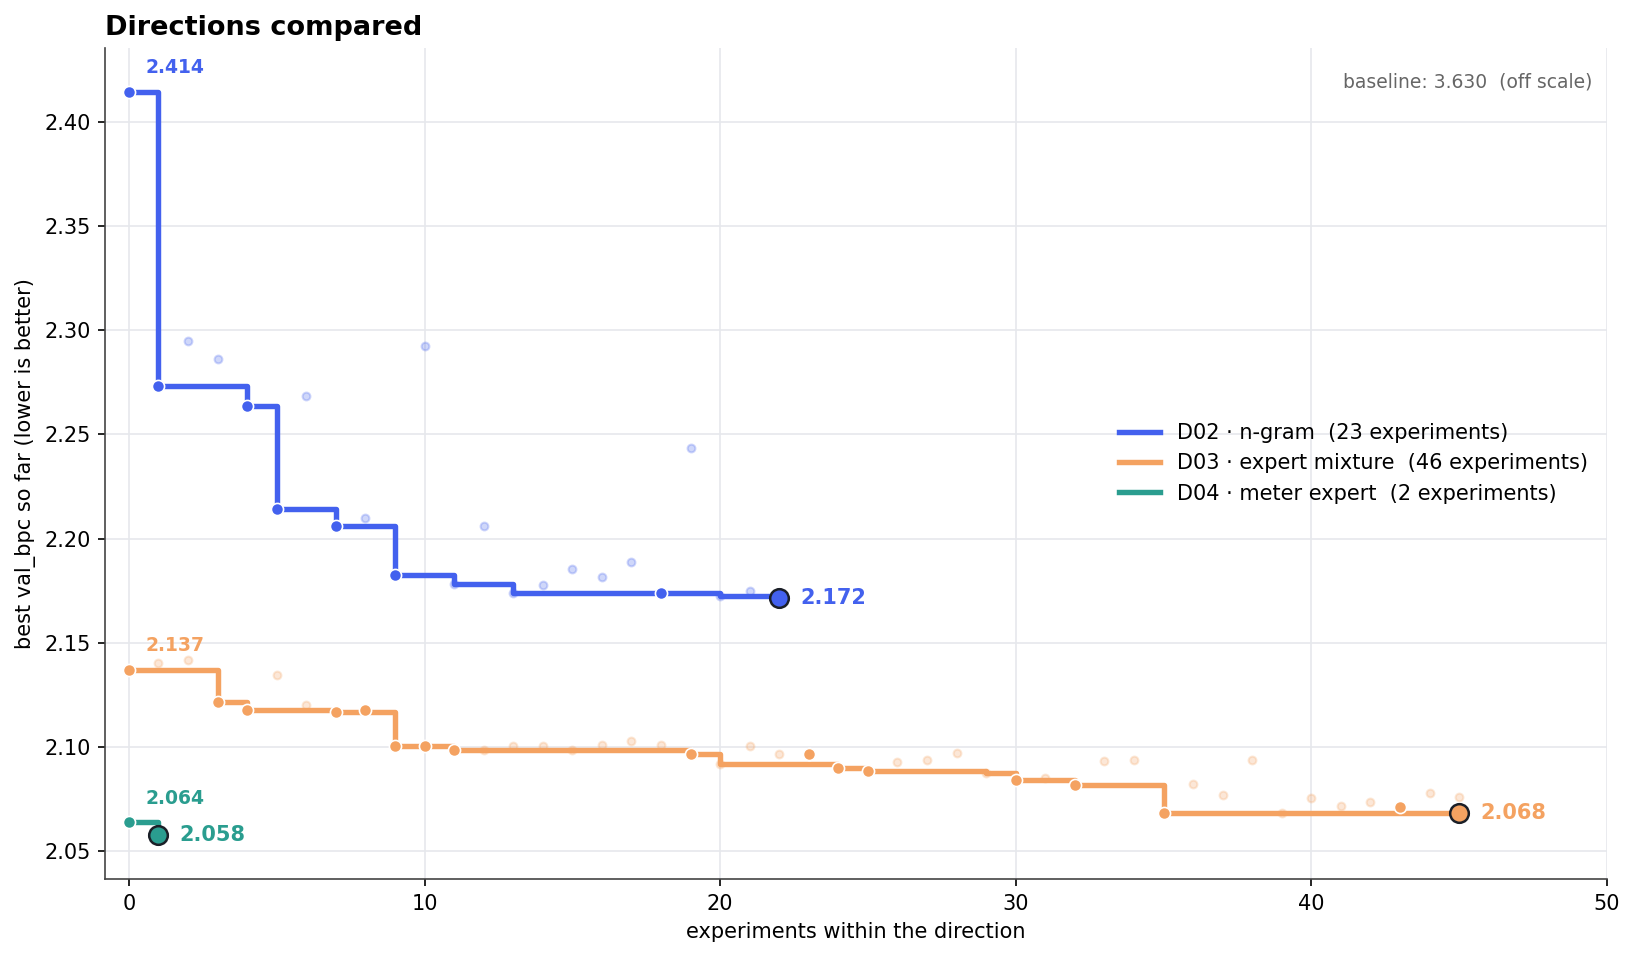
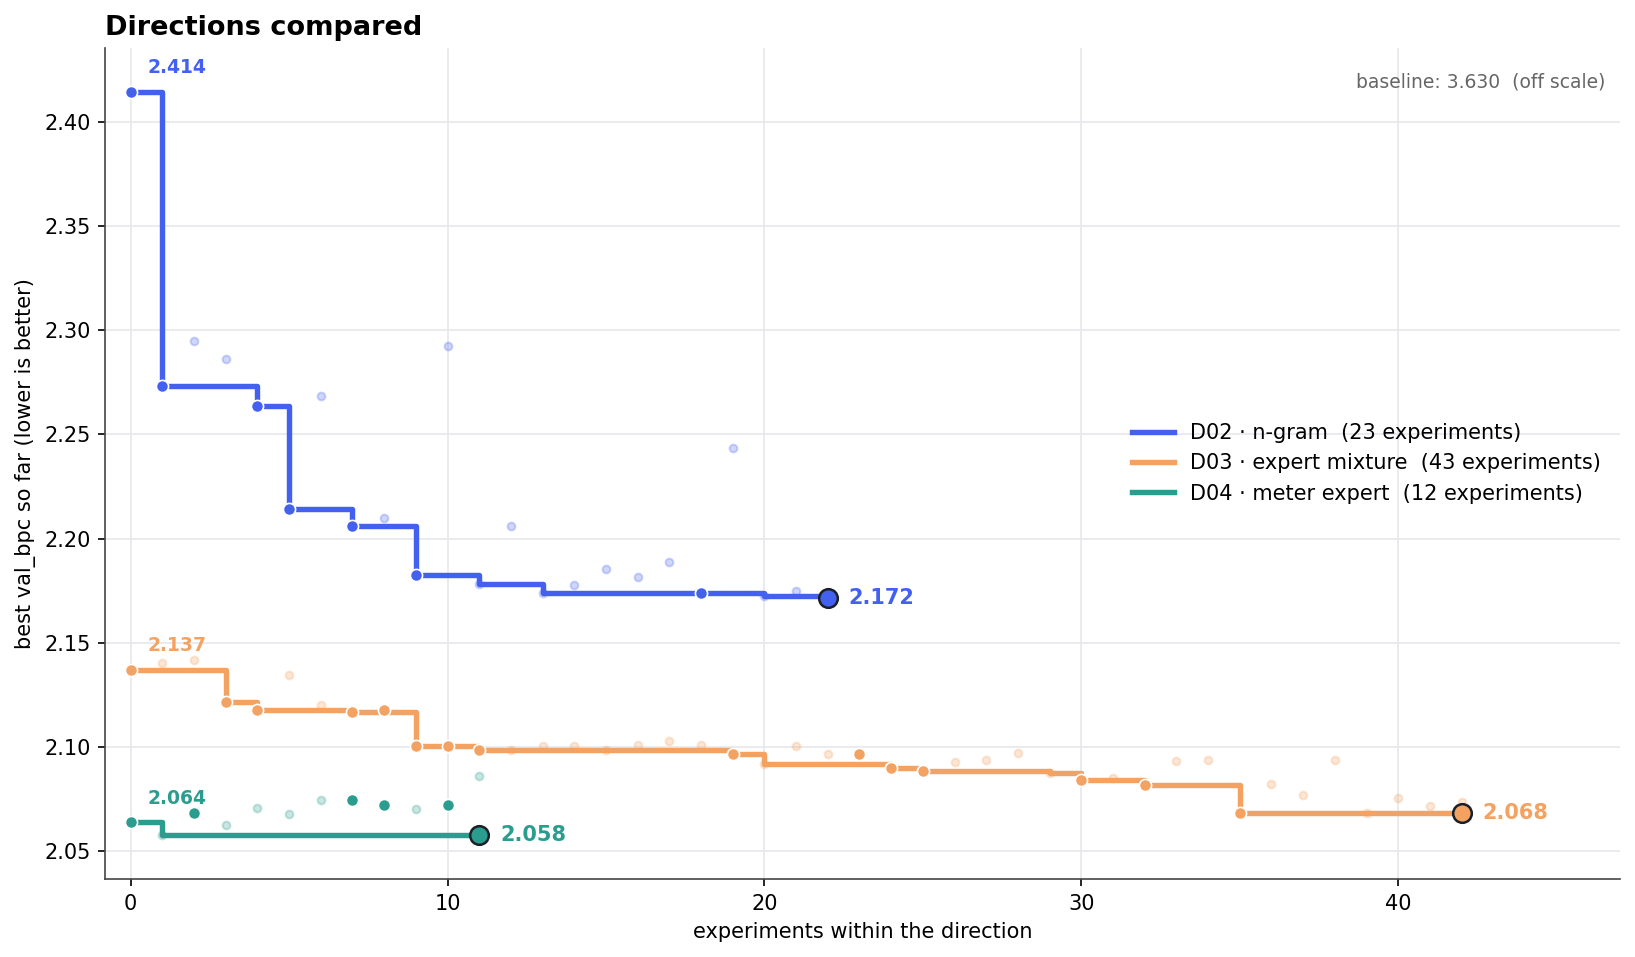
README: new opening line, updated directions chart

diff --git a/README.md b/README.md
@@ -4,7 +4,7 @@
 
 *A run on Tiny Shakespeare. Each line is one research direction the agent found while exploring and then pushed in exploitation.*
 
-So this is my first public repository and my first README. What a premiere.
+This is my first public repository and my first README 🎉
 
 ambidex is a setup for an autonomous research agent that does two things: it improves ideas that already work (exploitation), and it goes looking for new ones (exploration). It builds on Karpathy's [autoresearch](https://github.com/karpathy/autoresearch), which is very good at the first but isn't designed for the second. The whole thing is three markdown files you hand to a coding agent, plus a small example task that runs on a laptop.
 
